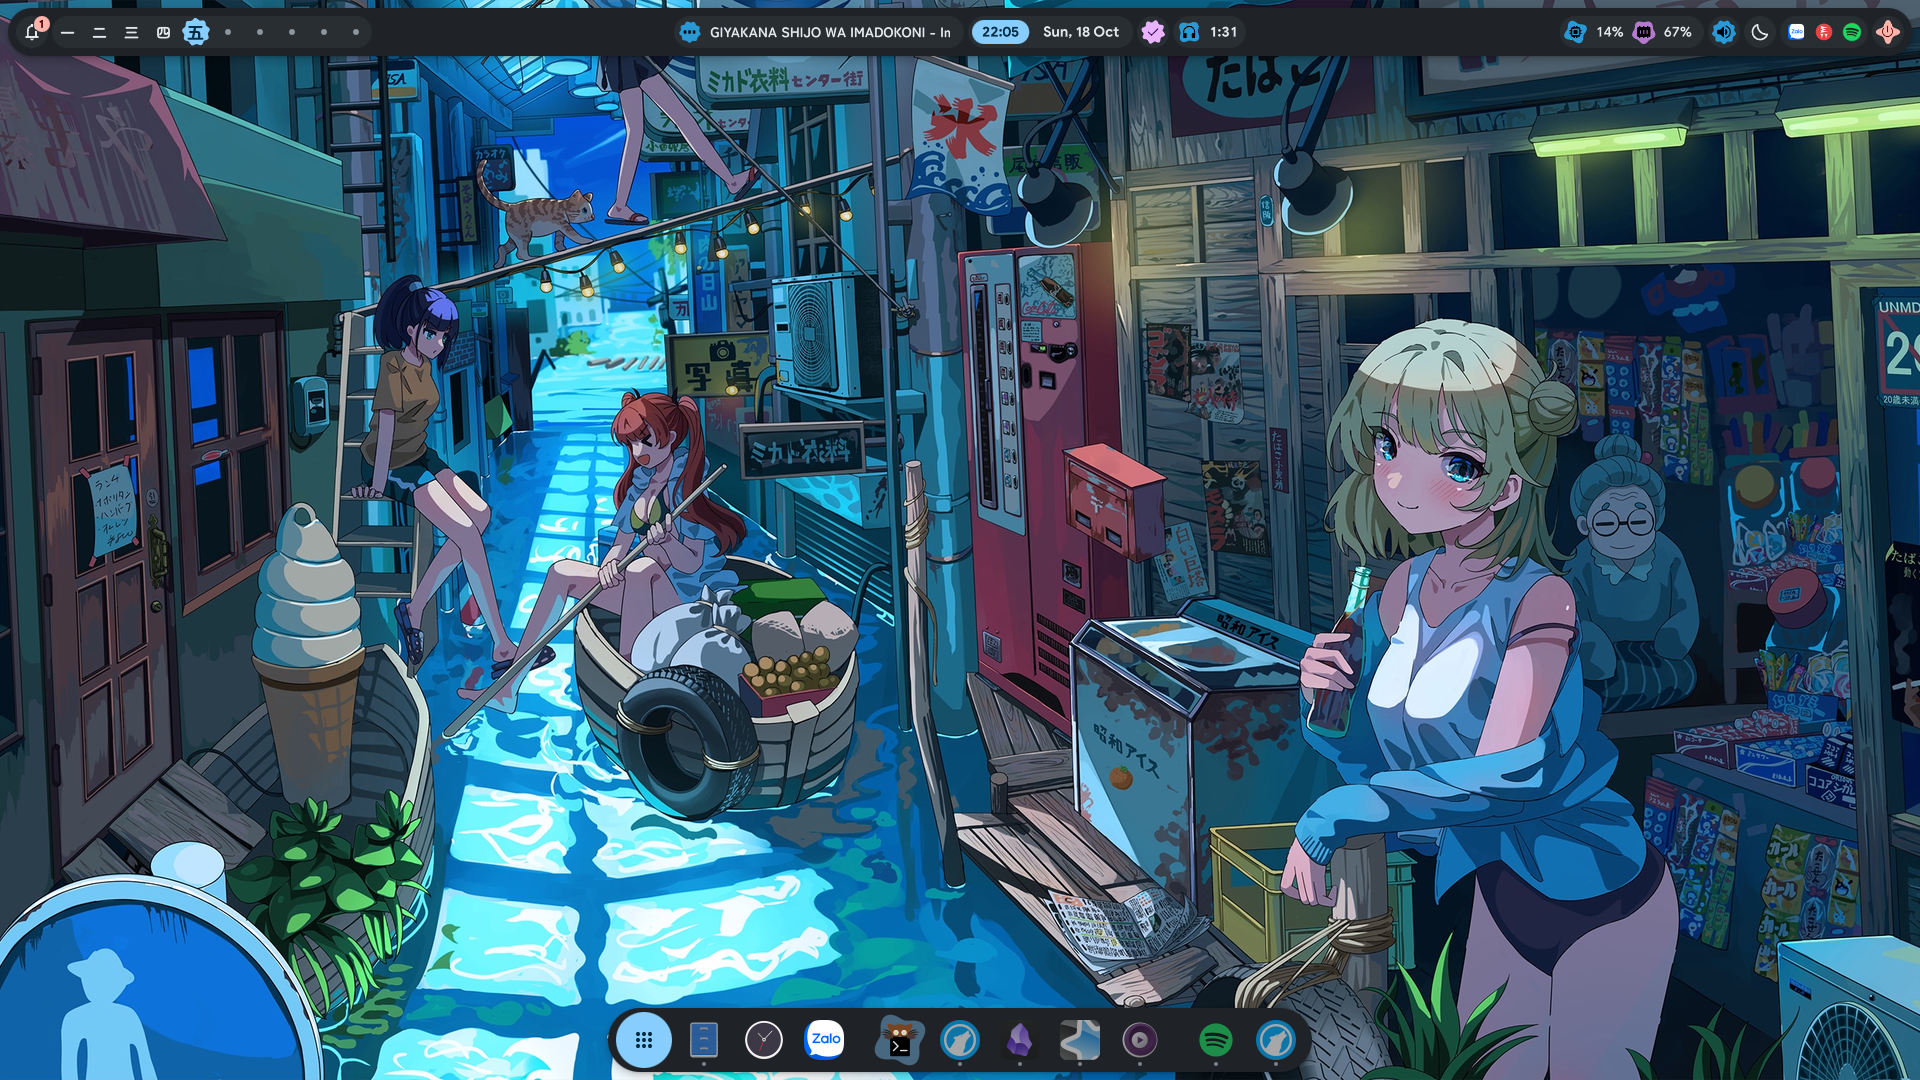
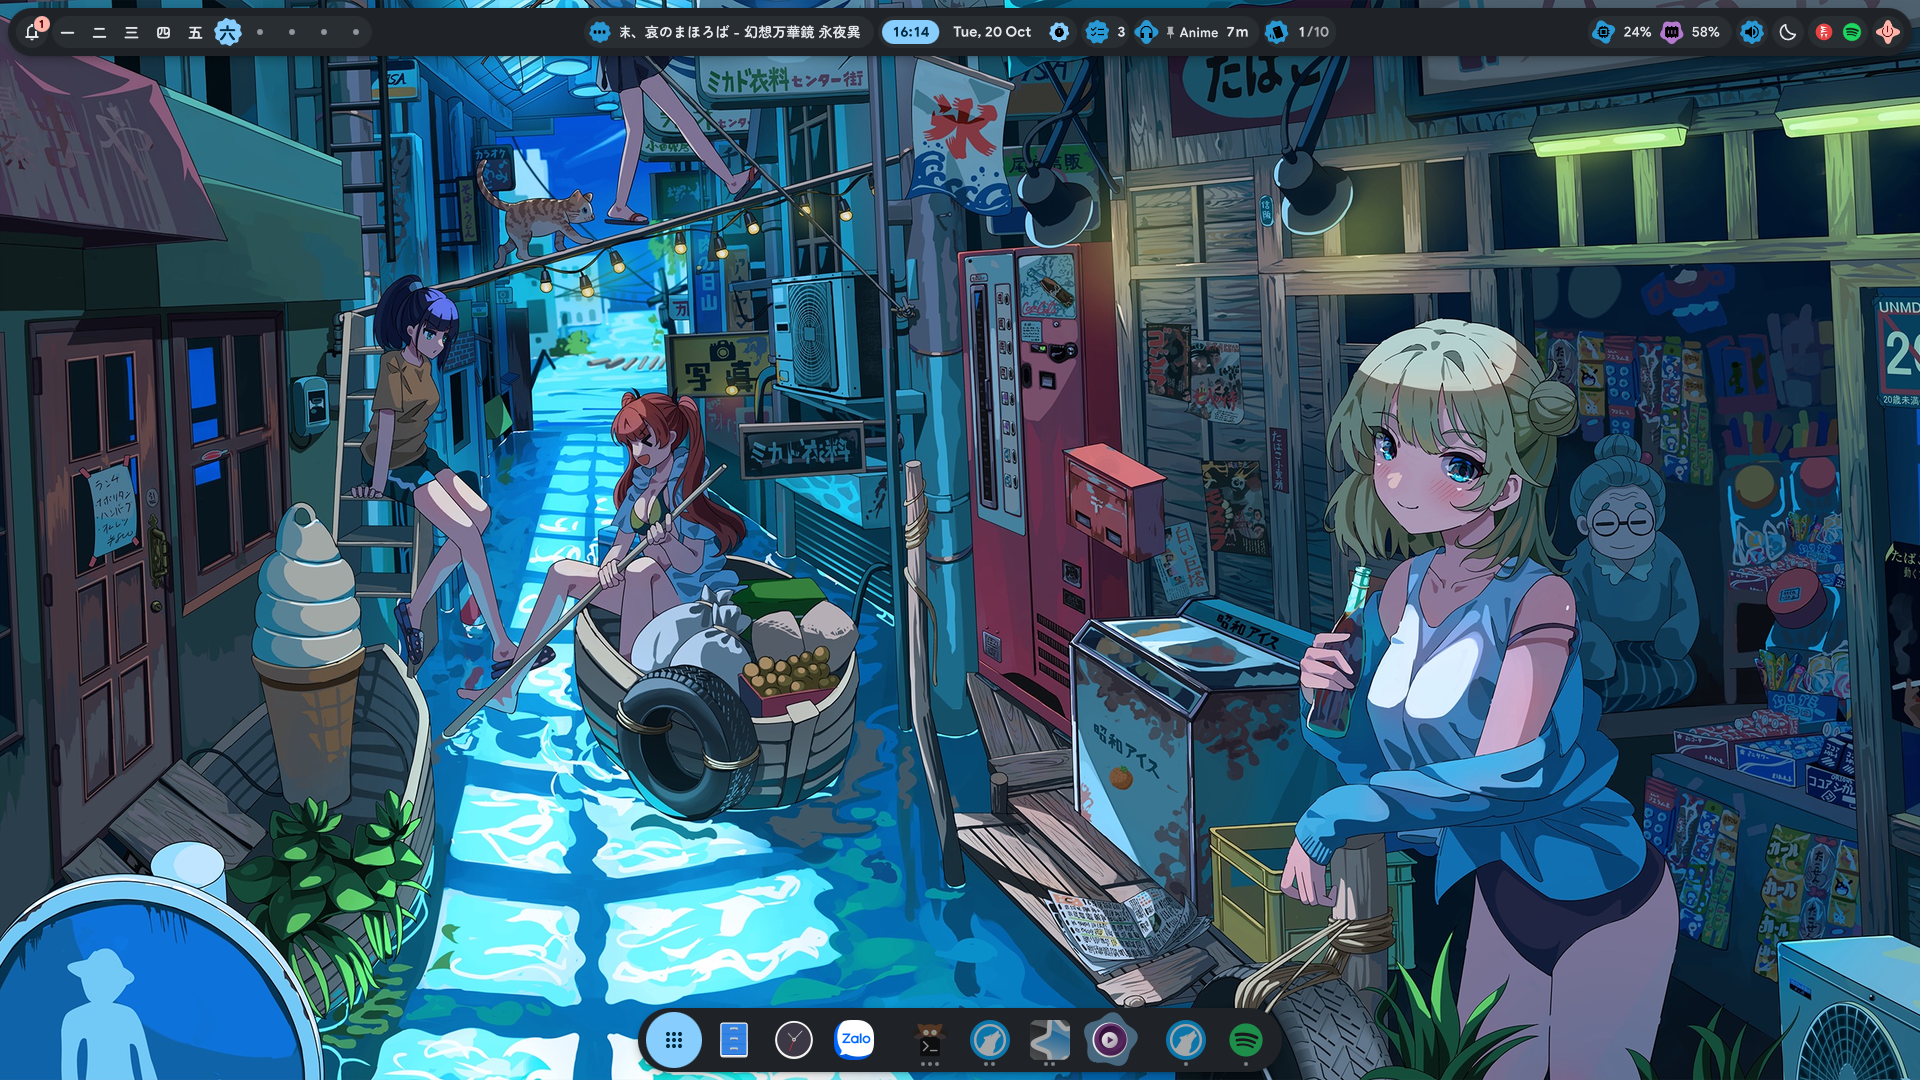
README: new screenshots, interactive subtitles and Jimaku panels

diff --git a/README.md b/README.md
@@ -6,10 +6,10 @@ Arch, Hyprland, Quickshell, Neovim. Colours come from the wallpaper through matu
 
 ## What is in here
 
-- `.config/quickshell`: the shell. Bar, dock, launcher, notifications, lock screen, wallpaper switcher, clipboard, control center and a few panels of my own (below).
+- `.config/quickshell`: the shell. Bar, dock, launcher, notifications, lock screen, wallpaper switcher, clipboard, control center, a library shelf for anime and a few panels of my own (below).
 - `.config/hypr`: Hyprland config in Lua.
 - `.config/matugen`: templates that turn the wallpaper colours into Quickshell, Hyprland and editor themes.
-- `.config/mpv`: mpv config and scripts, including the one that logs Japanese-audio playback for the immersion tracker.
+- `.config/mpv`: mpv config and scripts: the immersion logger, Jimaku subtitle fetching and the keys for the interactive subtitles.
 - `.config/nvim`: LazyVim.
 - `wallpaper/`: wallpapers.
 
@@ -19,7 +19,7 @@ Arch, Hyprland, Quickshell, Neovim. Colours come from the wallpaper through matu
 
 <img src="assets/focus.png" width="800">
 
-**Immersion tracker.** Counts time spent on Japanese media. mpv playback is logged automatically when the audio is Japanese. Books from ttu and manga from Kavita are read from their own data. There is a daily goal, a streak and a heatmap.
+**Immersion tracker.** Counts time spent on Japanese media. mpv playback is logged automatically when the audio is Japanese. Books from ttu and manga from Kavita are read from their own data. There is a daily goal, a streak and a heatmap. While an episode plays, the card shows how much of its subtitles you already know (for example "80% known · 195 new").
 
 <img src="assets/immersion.png" width="800">
 
@@ -27,7 +27,11 @@ Arch, Hyprland, Quickshell, Neovim. Colours come from the wallpaper through matu
 
 <img src="assets/tasks.png" width="800">
 
-Also in there: screenshots and screen recording (grim, gpu-screen-recorder), an OCR snip overlay for manga (manga-ocr or PaddleOCR), synced lyrics for whatever is playing, and a wallpaper picker.
+**Interactive subtitles.** In a fullscreen mpv the shell redraws the subtitle line so each word can be hovered, a bit like Migaku. Words are cut with fugashi and looked up through the Yomitan API. Unknown words are underlined, words being learned get a second colour, and known words stay plain. Known words come from Anki. Hovering opens a card with the definition, pitch accent and frequency; it can mark a word known or ignored, fix a name or a bad cut, and mine it into Anki (the audio and picture come from mpvacious). Resting on the right screen edge opens a transcript of the whole episode. Furigana can be shown over unknown words, all words or none (`Alt+f`).
+
+**Jimaku subtitles.** mpv fetches Japanese subtitles from jimaku.cc when a file loads and cleans them up (ASS to SRT, no karaoke or Chinese lines). `Alt+j` opens a panel to pick another file, block an author or point the show at another entry.
+
+Also in there: screenshots and screen recording (grim, gpu-screen-recorder), an OCR snip overlay for manga (manga-ocr or PaddleOCR), synced lyrics for whatever is playing, and a wallpaper picker, an alarm and a restore of the last session after a reboot.
 
 ## Setup
 
@@ -40,7 +44,7 @@ cfg checkout        # move any existing files out of the way first
 cfg config status.showUntrackedFiles no
 ```
 
-Needed for the shell: quickshell, hyprland, matugen, awww, cliphist, wl-clipboard, grim, slurp, gpu-screen-recorder, mpv. Optional: manga-ocr or paddleocr for the OCR overlay, ydotool.
+Needed for the shell: quickshell, hyprland, matugen, awww, cliphist, wl-clipboard, grim, slurp, gpu-screen-recorder, mpv. Optional: manga-ocr or paddleocr for the OCR overlay, ydotool. For the interactive subtitles: a Python venv with fugashi and unidic-lite at `~/.venv`, the Yomitan API extension in a running browser, Anki with AnkiConnect, and mpvacious.
 
 Fonts: Google Sans and Zen Maru Gothic.
 
